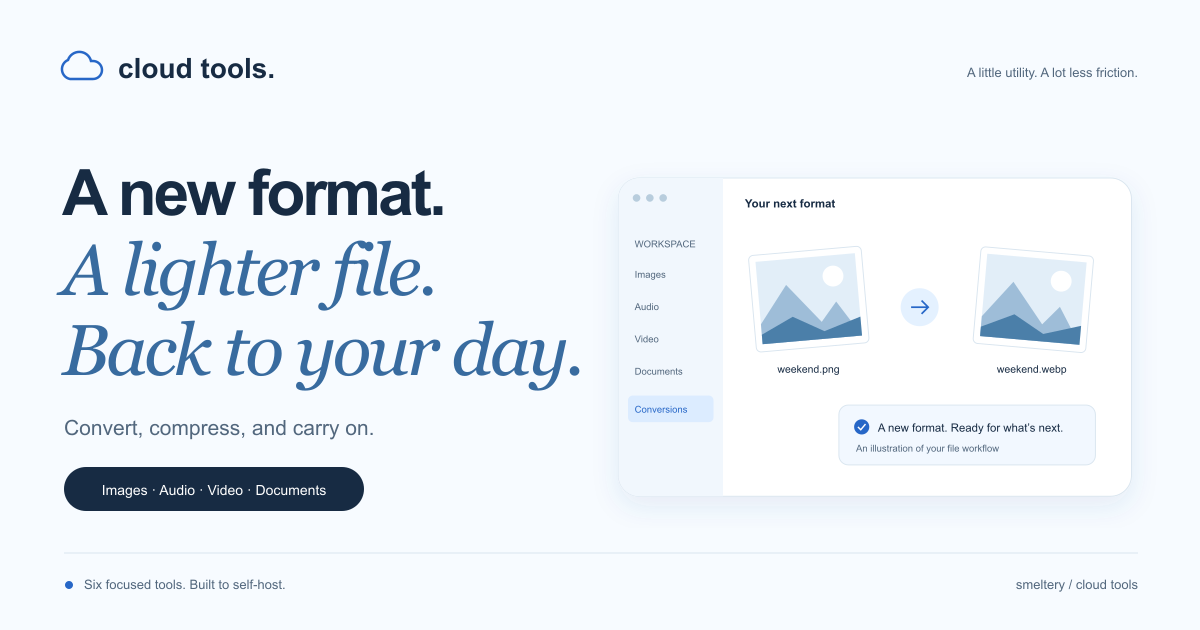
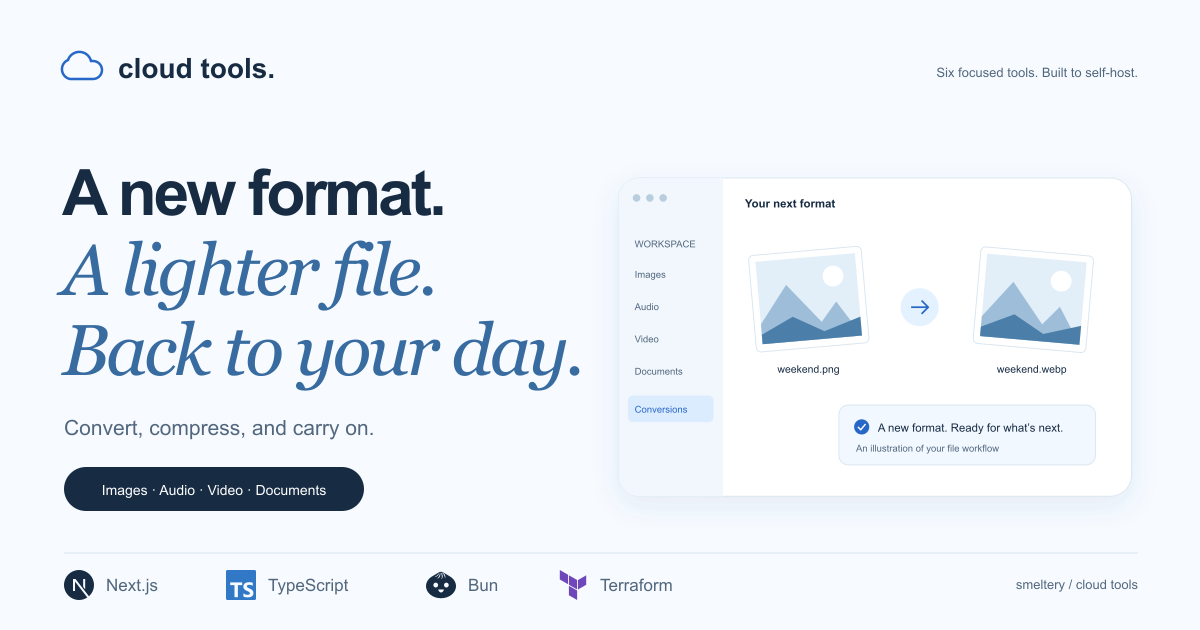
feat: identify the technology stack in the social preview

diff --git a/scripts/brand.ts b/scripts/brand.ts
@@ -7,18 +7,34 @@ const illustration = (
   '<svg xmlns="http://www.w3.org/2000/svg" width="600" height="420" viewBox="0 0 600 420">',
   '<svg x="590" y="140" width="570" height="399" viewBox="0 0 600 420">',
 );
+const technologies = [
+  { slug: "nextdotjs", name: "Next.js", color: "#172b43", x: 64 },
+  { slug: "typescript", name: "TypeScript", color: "#3178c6", x: 226 },
+  { slug: "bun", name: "Bun", color: "#172b43", x: 426 },
+  { slug: "terraform", name: "Terraform", color: "#7047b8", x: 558 },
+];
+const technologyMarks = await Promise.all(
+  technologies.map(async ({ slug, name, color, x }) => {
+    const mark = await readFile(
+      `client/public/brands/technology/${slug}.svg`,
+      "utf8",
+    );
+    const paths = mark.replace(/<svg[^>]*>|<\/svg>|<title>.*?<\/title>/g, "");
+    return `<g transform="translate(${x} 570)"><svg width="30" height="30" viewBox="0 0 24 24" fill="${color}">${paths}</svg><text x="42" y="21" font-size="17" fill="#52677d">${name}</text></g>`;
+  }),
+);
 const svg = `<svg xmlns="http://www.w3.org/2000/svg" width="1200" height="630" viewBox="0 0 1200 630">
 <rect width="1200" height="630" fill="#f7fbff"/>
 <g transform="translate(62 48)"><path d="M8 31h23a9 9 0 0 0 0-18h-2A12 12 0 0 0 6 12a10 10 0 0 0 2 19Z" fill="none" stroke="#2767c7" stroke-width="2.5"/></g>
-<g font-family="Arial,sans-serif" fill="#172b43"><text x="118" y="78" font-size="28" font-weight="bold">cloud tools.</text><text x="1138" y="77" font-size="13" text-anchor="end" fill="#52677d">A little utility. A lot less friction.</text>
+<g font-family="Arial,sans-serif" fill="#172b43"><text x="118" y="78" font-size="28" font-weight="bold">cloud tools.</text><text x="1138" y="77" font-size="13" text-anchor="end" fill="#52677d">Six focused tools. Built to self-host.</text>
 <text x="62" y="215" font-size="64" font-weight="bold" letter-spacing="-3">A new format.</text>
 <text x="62" y="295" font-family="Georgia,serif" font-style="italic" font-size="72" letter-spacing="-3" fill="#386b9f">A lighter file.</text>
 <text x="62" y="375" font-family="Georgia,serif" font-style="italic" font-size="72" letter-spacing="-3" fill="#386b9f">Back to your day.</text>
 <text x="64" y="435" font-size="21" fill="#52677d">Convert, compress, and carry on.</text>
 <rect x="64" y="467" width="300" height="44" rx="22" fill="#172b43"/><text x="214" y="495" font-size="14" text-anchor="middle" fill="white">Images · Audio · Video · Documents</text>
 ${illustration}
-<path d="M64 553h1074" stroke="#d9e5ef"/><circle cx="69" cy="585" r="4" fill="#2767c7"/>
-<text x="84" y="589" font-size="13" fill="#52677d">Six focused tools. Built to self-host.</text><text x="1138" y="589" text-anchor="end" font-size="13" fill="#52677d">smeltery / cloud tools</text></g></svg>`;
+<path d="M64 553h1074" stroke="#d9e5ef"/>
+${technologyMarks.join("")}<text x="1138" y="589" text-anchor="end" font-size="13" fill="#52677d">smeltery / cloud tools</text></g></svg>`;
 await writeFile("client/public/og.svg", svg);
 await sharp(Buffer.from(svg)).png().toFile("client/public/og.png");
 console.log("Generated 1200×630 social preview.");

diff --git a/client/public/brands/README.md b/client/public/brands/README.md
@@ -5,3 +5,11 @@ The chat provider SVGs are the brand marks used by the
 from its `/brands/chat/` assets. They identify links to ChatGPT, Claude, v0,
 t3.chat, Scira, and Cursor. These marks belong to their respective owners and
 do not imply endorsement of Cloud Tools.
+
+## Technology marks
+
+The social preview uses Next.js, TypeScript, Bun, and Terraform marks from
+[Simple Icons](https://github.com/simple-icons/simple-icons/tree/develop/icons).
+The SVGs are stored locally so `bun run brand:build` needs no network access.
+These marks identify technologies used by Cloud Tools and belong to their
+respective owners; they do not imply endorsement.
